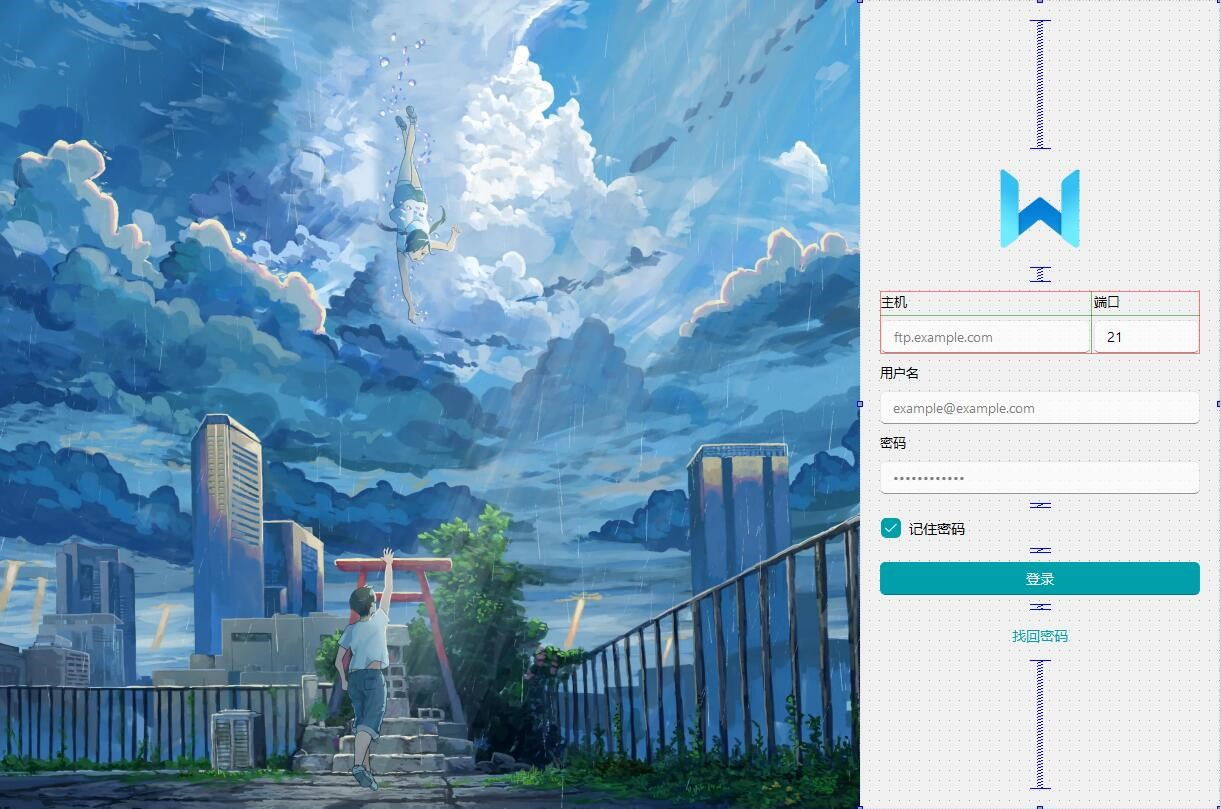
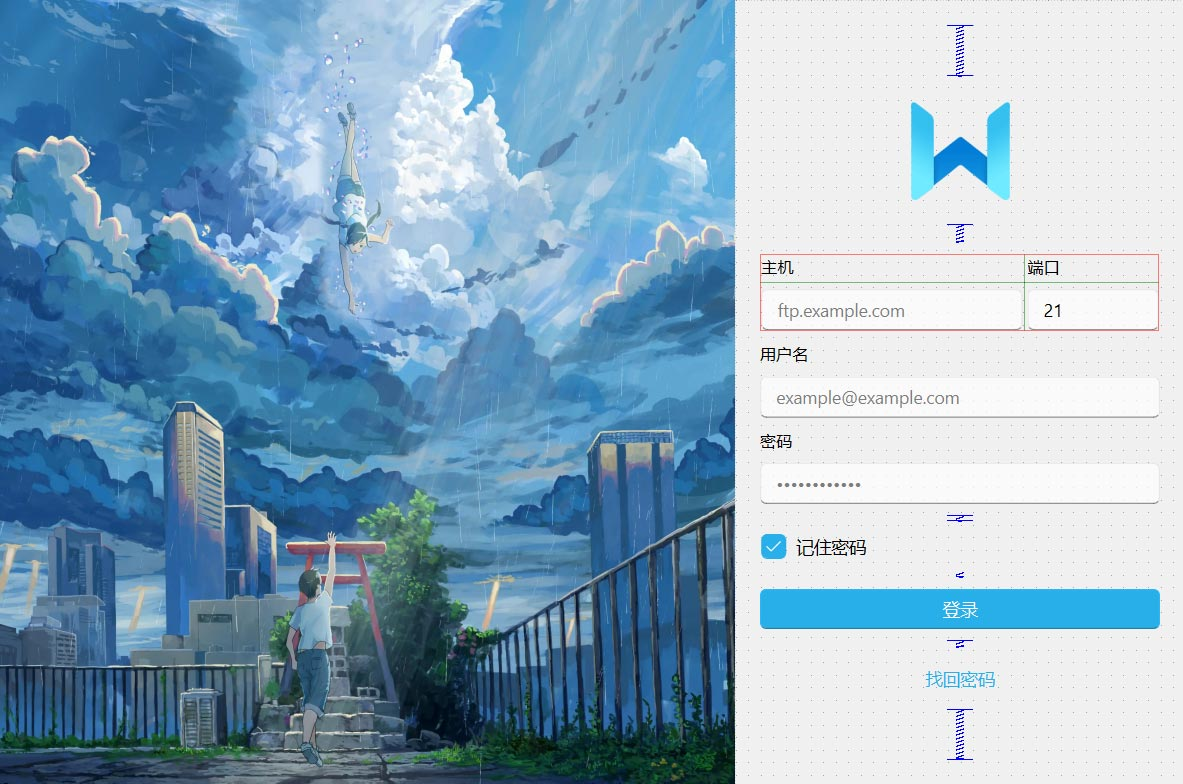
压缩图像

diff --git a/dev/.vuepress/config/en/comments.js b/dev/.vuepress/config/en/comments.js
@@ -34,7 +34,7 @@ export const comments = {
     column2: [
         {
             "name": "okyan123",
-            "avatar": "/img/users/okyan123.png",
+            "avatar": "/img/users/okyan123.jpg",
             "job": "Front-end Developer",
             "comment": "This is definitely the best one I've seen so far. I've seen remakes using Flutter and Qt before, and the styles were done well, but they were all lacking animations. This one has good transition animations.👍"
         },
@@ -72,7 +72,7 @@ export const comments = {
         },
         {
             "name": "哈喽鼓捣拜",
-            "avatar": "/img/users/hellogoodbye.png",
+            "avatar": "/img/users/hellogoodbye.jpg",
             "job": "Student",
             "comment": "Today, I was going crazy writing QSS, so I searched to see if there were any ready-made ones. At first, I thought it was made by a foreign master, but when I clicked to watch the video demonstration, I found out that it's actually from China. I didn't expect to be able to use it so quickly!"
         },

diff --git a/dev/.vuepress/config/zh/comments.js b/dev/.vuepress/config/zh/comments.js
@@ -34,7 +34,7 @@ export const comments = {
     column2: [
         {
             "name": "okyan123",
-            "avatar": "/img/users/okyan123.png",
+            "avatar": "/img/users/okyan123.jpg",
             "job": "前端开发工程师",
             "comment": "这个确实是我见过水平最好的一个了，先前见过 Flutter 和 Qt 复刻的，样式做的不错，但都是缺少点动画，这个把过渡动画做的不错👍"
         },
@@ -72,7 +72,7 @@ export const comments = {
         },
         {
             "name": "哈喽鼓捣拜",
-            "avatar": "/img/users/hellogoodbye.png",
+            "avatar": "/img/users/hellogoodbye.jpg",
             "job": "学生",
             "comment": "今天在写 QSS，感觉疯了，然后搜下有没有现成的。开始还以为是国外大佬的，点击看下视频演示才发现居然在国内，想不到这么快就能用上了！"
         },

diff --git a/dev/.vuepress/components/AuthorCommentCard.vue b/dev/.vuepress/components/AuthorCommentCard.vue
@@ -6,7 +6,7 @@
                 <p v-html="home.author.comment"></p>
             </blockquote>
             <figcaption>
-                <img src="/img/shoko.png" alt="" loading="lazy" decoding="async">
+                <img src="/img/shoko.jpg" alt="" loading="lazy" decoding="async">
                 <div>
                     <div class="name">{{ home.author.name }}</div>
                     <div class="desc">{{ home.author.description }}</div>

diff --git a/dev/.vuepress/components/DesignerFeatureCard.vue b/dev/.vuepress/components/DesignerFeatureCard.vue
@@ -67,7 +67,7 @@
             <div class="designer-wrapper" v-show="isDesignerSelected">
                 <div class="designer-img-container">
                     <div class="designer-img-wrapper">
-                        <img src="/img/features/login-designer.png" alt="" decoding="async">
+                        <img src="/img/features/login-designer.jpg" alt="" decoding="async">
                     </div>
                 </div>
 

diff --git a/dev/docs/support/support.md b/dev/docs/support/support.md
@@ -7,7 +7,7 @@ permalink: /pages/support/
 If this project helps you a lot and you want to support the development and maintenance of this project, feel free to sponsor me via [爱发电](https://afdian.net/a/zhiyiYo) or [ko-fi](https://ko-fi.com/zhiyiYo). Your support is highly appreciated 🥰
 
 <p align="center">
-  <img src='/img/aifadian.png' style="height: 460px"/>
+  <img src='/img/aifadian.jpg' style="height: 460px"/>
 </p>
 
 
@@ -28,5 +28,5 @@ Display your brand LOGO and slogan simultaneously on:
 
 Contact information:
 
-- Email: [shokokawaii@outlook.com](mailto:jobob@qq.com) | [qfluentwidgets@outlook.com](mailto:koyangslash@gmail.com)
+- Email: [shokokawaii@outlook.com](mailto:shokokawaii@outlook.com) | [shokokawaii@foxmail.com](mailto:shokokawaii@foxmail.com)
 - GitHub: [https://github.com/zhiyiYo/PyQt-Fluent-Widgets](https://github.com/zhiyiYo/PyQt-Fluent-Widgets)

diff --git a/dev/zh/support/support.md b/dev/zh/support/support.md
@@ -7,7 +7,7 @@ permalink: /zh/pages/support/
 个人开发不易，如果这个组件库帮助了您，可以考虑在 [爱发电](https://afdian.net/a/zhiyiYo) 或者 [ko-fi](https://ko-fi.com/zhiyiYo) 上请作者喝一瓶快乐水。您的支持就是作者继续开发和维护项目的动力 🥰
 
 <p align="center">
-  <img src='/img/aifadian.png' style="height: 460px"/>
+  <img src='/img/aifadian.jpg' style="height: 460px"/>
 </p>
 
 
@@ -29,5 +29,5 @@ permalink: /zh/pages/support/
 
 相关联系方式：
 
-- 邮件：[shokokawaii@outlook.com](mailto:jobob@qq.com) | [qfluentwidgets@outlook.com](mailto:koyangslash@gmail.com)
+- 邮件：[shokokawaii@outlook.com](mailto:shokokawaii@outlook.com) | [shokokawaii@foxmail.com](mailto:shokokawaii@foxmail.com)
 - Github：[https://github.com/zhiyiYo/PyQt-Fluent-Widgets](https://github.com/zhiyiYo/PyQt-Fluent-Widgets)
